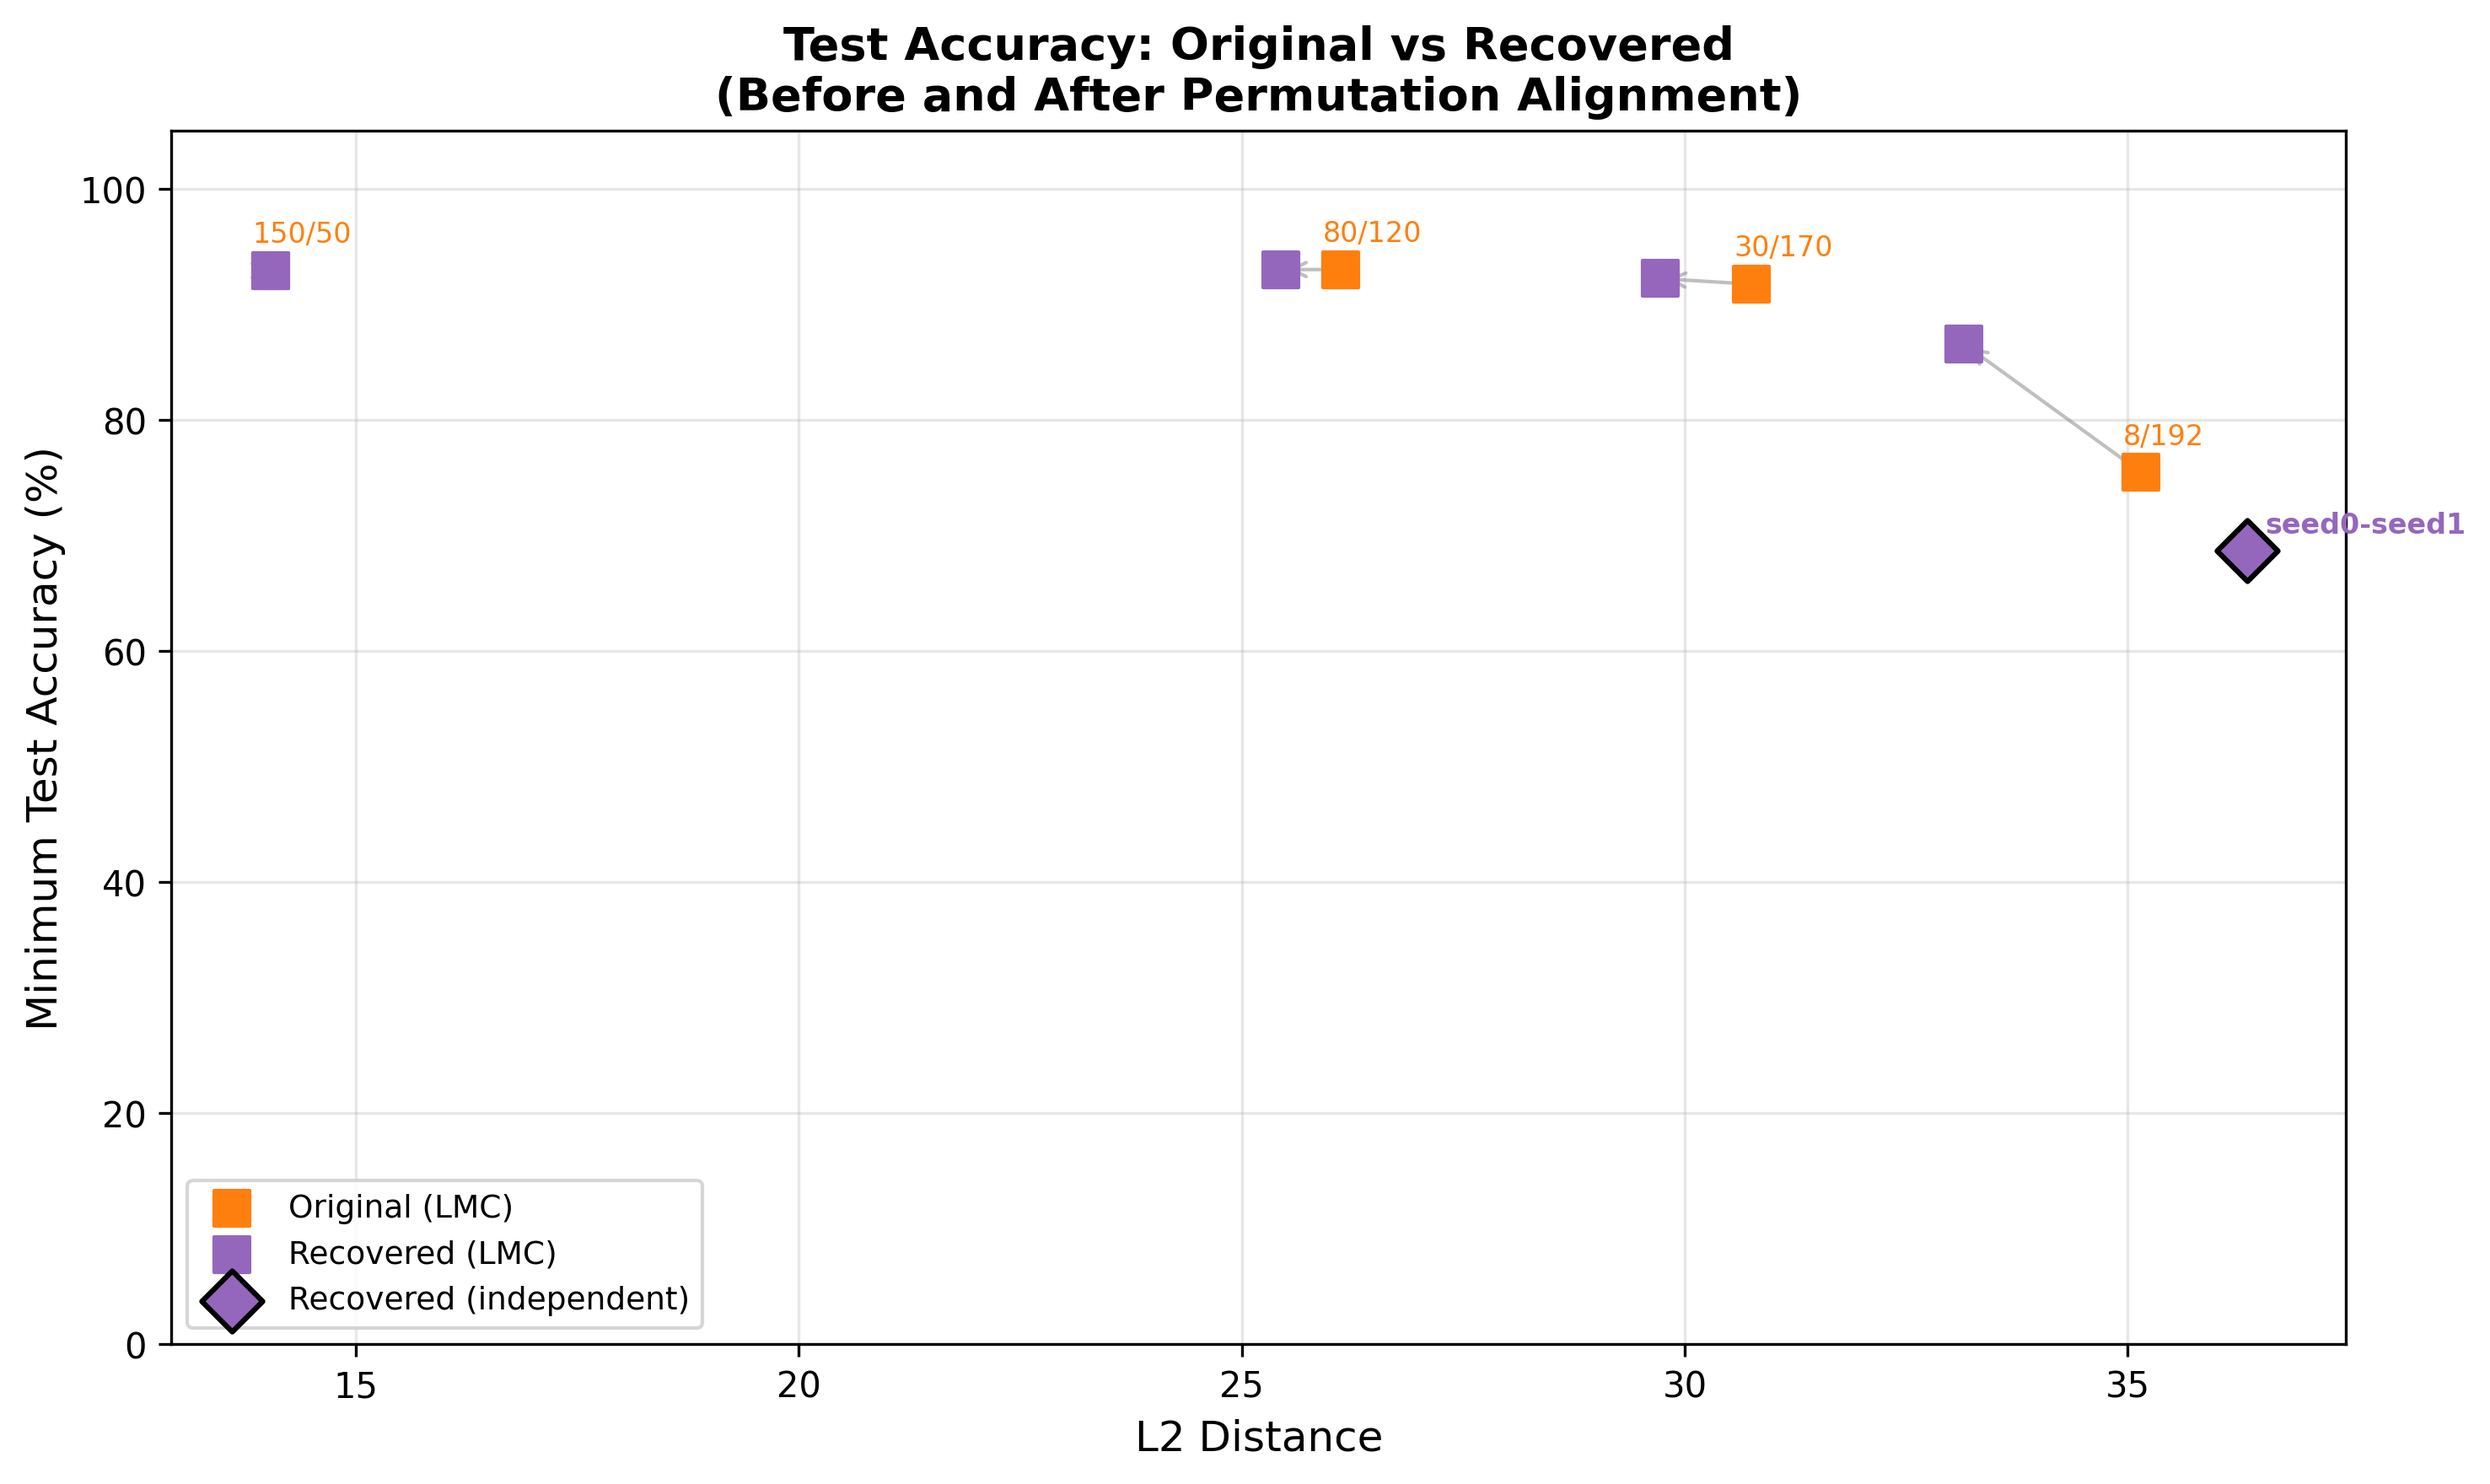
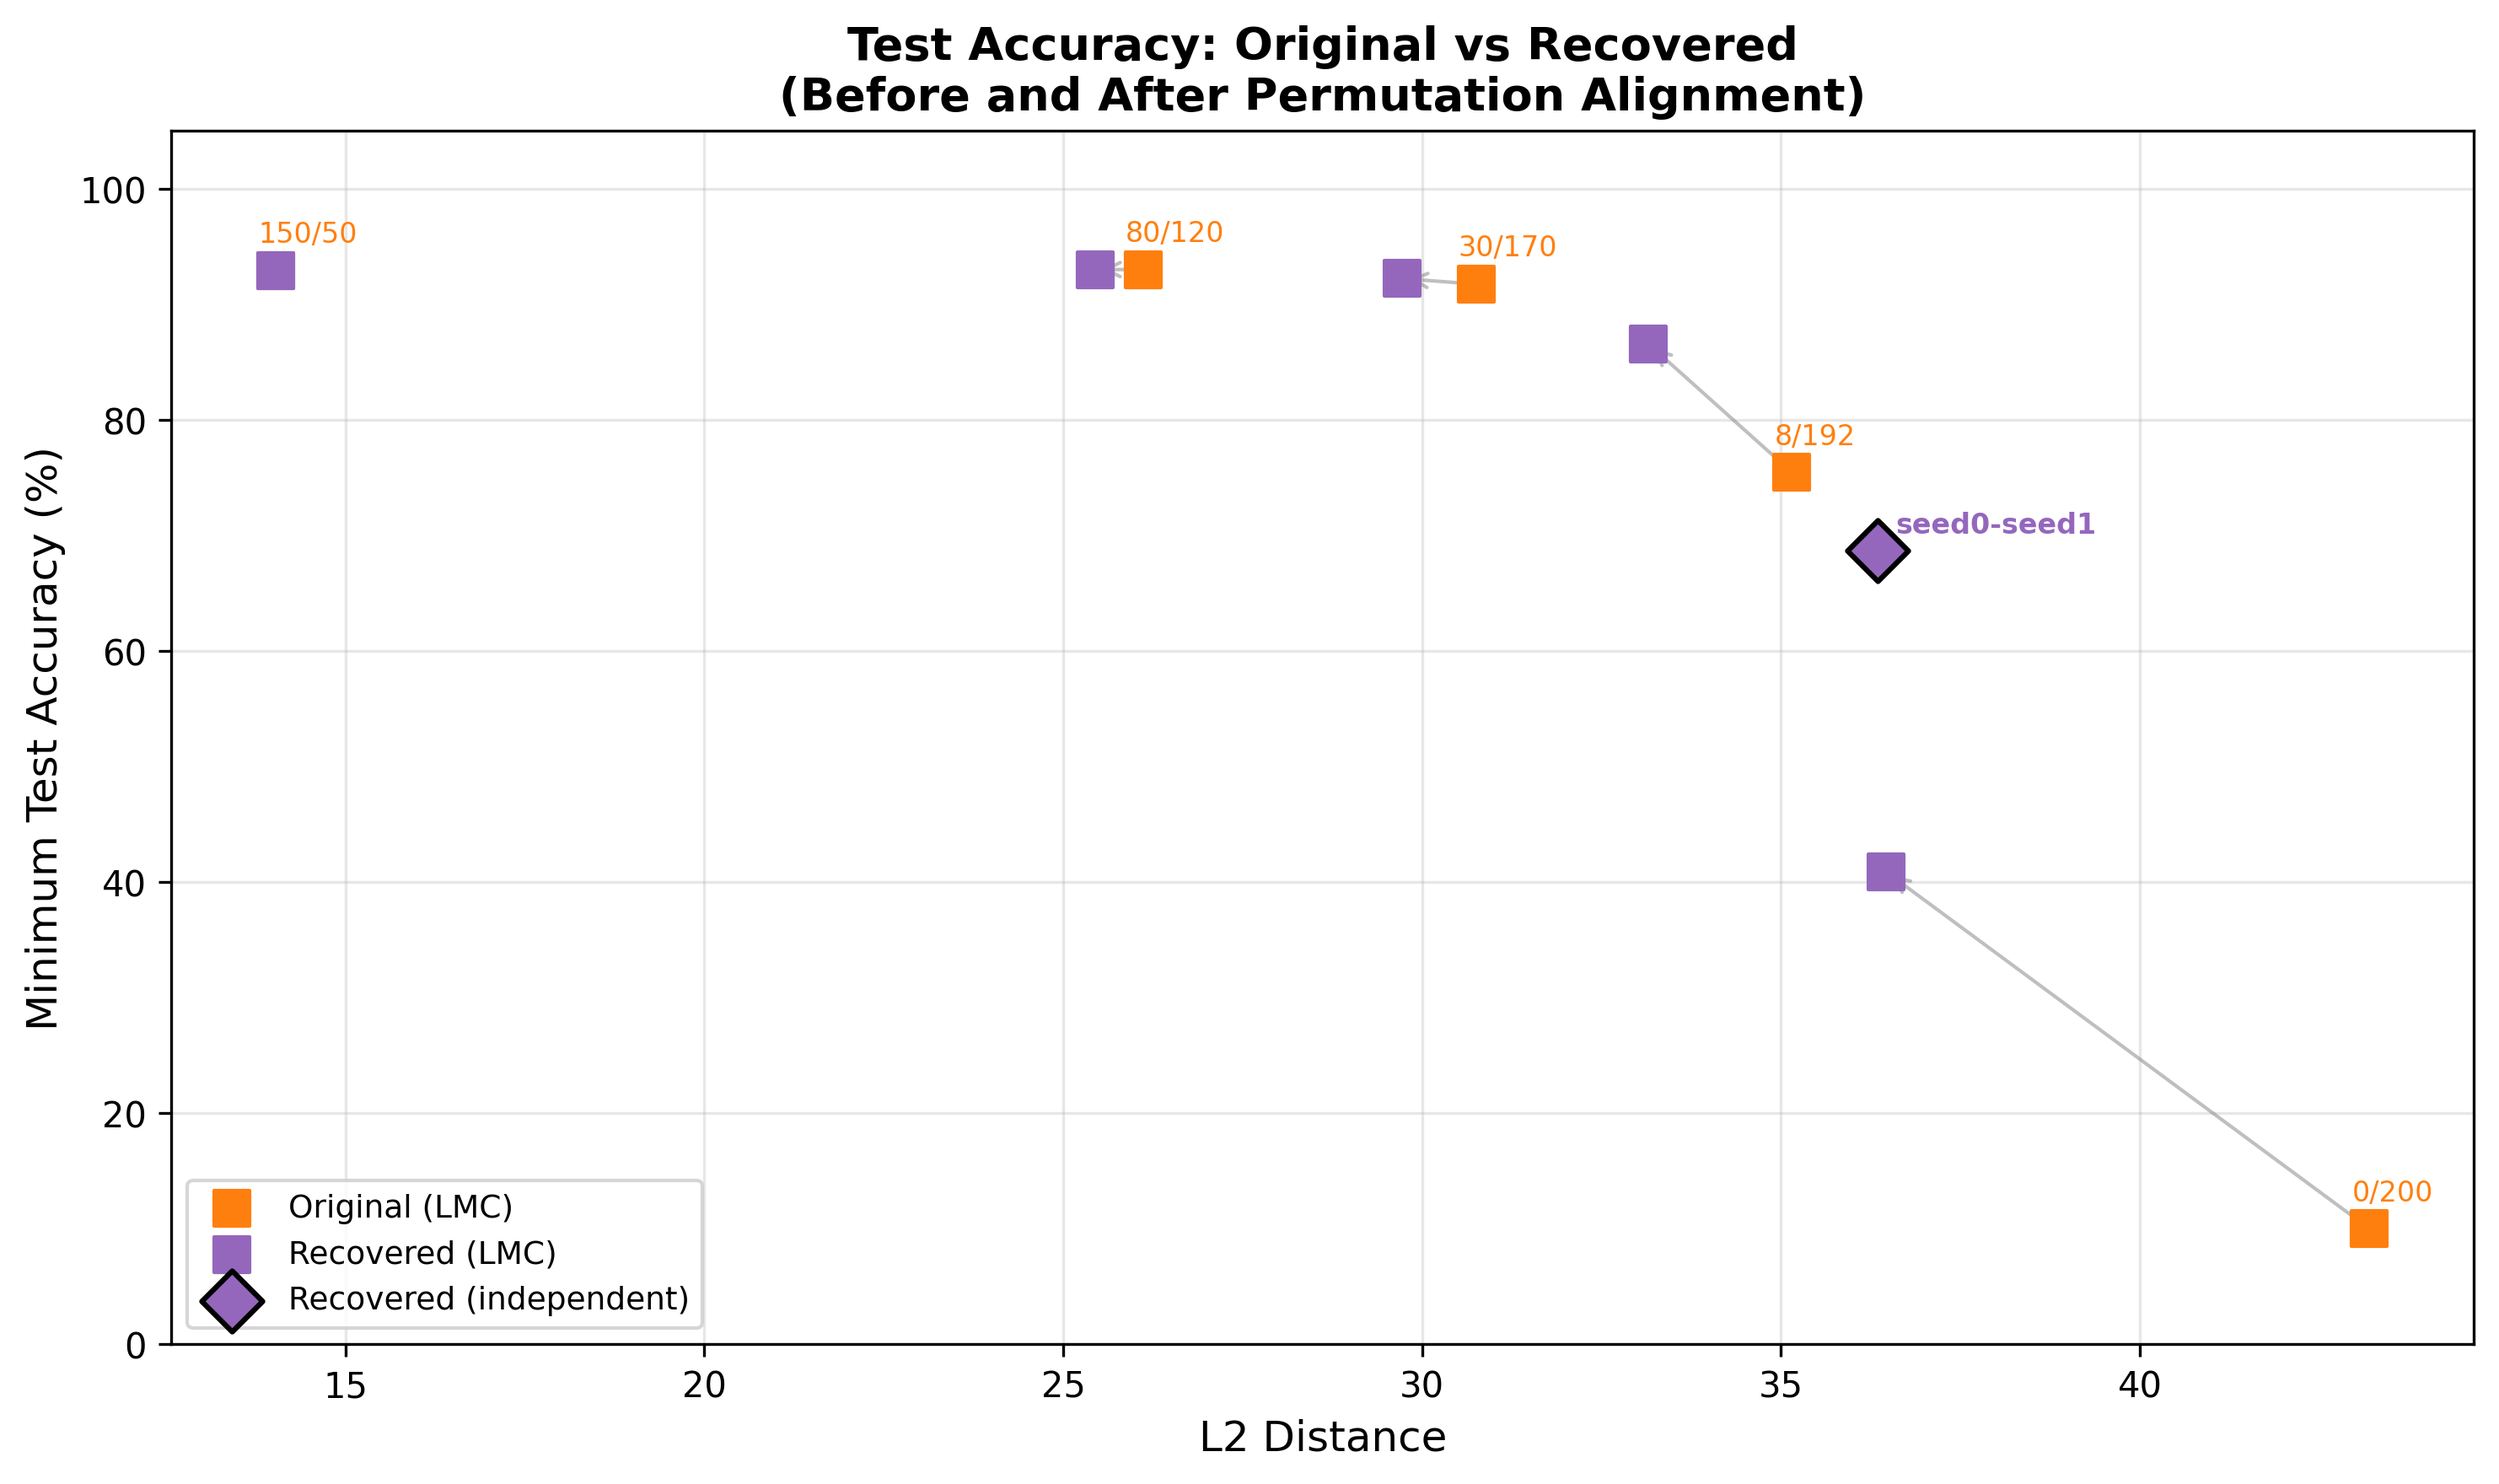
gerger

diff --git a/scripts/plot/plot_alignment_train_accuracy.py b/scripts/plot/plot_alignment_train_accuracy.py
@@ -38,13 +38,35 @@ def main():
         '80/120': 'results/analysis/alignment_benchmark_80split/results.json',
         '30/170': 'results/analysis/alignment_benchmark_30split/results.json',
         '8/192': 'results/analysis/alignment_benchmark_8split/results.json',
+        '0/200': 'results/analysis/alignment_benchmark_0split/results.json',
     }
     seed_file = 'results/analysis/alignment_independent/seed0_seed1_results.json'
+
+    # Hardcoded data for experiments without JSON files yet
+    hardcoded_data = {
+        '0/200': {
+            'w0_w1': 43.19,
+            'w0_w1_recovered': 36.46,
+            'org_train_min': 10.0,
+            'rec_train_min': 42.11,
+            'is_independent': False
+        }
+    }
 
     # Collect data
     experiments = []
 
     for name, path in data_files.items():
+        # Check for hardcoded data first
+        if name in hardcoded_data:
+            full_path = os.path.join(project_root, path)
+            if not os.path.exists(full_path):
+                # Use hardcoded data
+                experiments.append(hardcoded_data[name])
+                experiments[-1]['name'] = name
+                print(f"Using hardcoded data for {name}")
+                continue
+
         full_path = os.path.join(project_root, path)
         if os.path.exists(full_path):
             data = load_benchmark_data(full_path)

diff --git a/scripts/plot/plot_alignment_test_accuracy.py b/scripts/plot/plot_alignment_test_accuracy.py
@@ -38,13 +38,35 @@ def main():
         '80/120': 'results/analysis/alignment_benchmark_80split/results.json',
         '30/170': 'results/analysis/alignment_benchmark_30split/results.json',
         '8/192': 'results/analysis/alignment_benchmark_8split/results.json',
+        '0/200': 'results/analysis/alignment_benchmark_0split/results.json',
     }
     seed_file = 'results/analysis/alignment_independent/seed0_seed1_results.json'
+
+    # Hardcoded data for experiments without JSON files yet
+    hardcoded_data = {
+        '0/200': {
+            'w0_w1': 43.19,
+            'w0_w1_recovered': 36.46,
+            'org_test_min': 10.0,
+            'rec_test_min': 40.88,
+            'is_independent': False
+        }
+    }
 
     # Collect data
     experiments = []
 
     for name, path in data_files.items():
+        # Check for hardcoded data first
+        if name in hardcoded_data:
+            full_path = os.path.join(project_root, path)
+            if not os.path.exists(full_path):
+                # Use hardcoded data
+                experiments.append(hardcoded_data[name])
+                experiments[-1]['name'] = name
+                print(f"Using hardcoded data for {name}")
+                continue
+
         full_path = os.path.join(project_root, path)
         if os.path.exists(full_path):
             data = load_benchmark_data(full_path)
